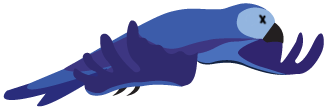
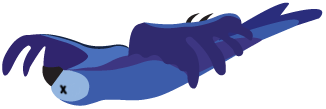
.

diff --git a/tp3/EntregaFinal/main.js b/tp3/EntregaFinal/main.js
@@ -1,12 +1,32 @@
-let valor = 2500;
 let colision = false;
-let cono = document.getElementById("aguila");
+let arbol = document.getElementById("arbol");
 let moneda = document.getElementById("moneda");
 let puntuacion = document.getElementById("puntuacion");
 let puntos = 0;
 let terminado = false;
-let perdiste = document.getElementById("perdiste"); //BORARR ESTO
-juego();
+let perdiste = document.getElementById("perdiste");
+let puntuacionFinal = document.getElementById("puntuacionFinal");
+let instrucciones = document.getElementById("instrucciones");
+let botonInstrucciones = document.getElementById("botonInstrucciones");
+botonInstrucciones.addEventListener("click", desplegarInstrucciones)
+
+
+perdiste.style.display = "none";
+  detenerMovimiento();
+
+document.querySelector(".jugar").addEventListener("click", function () {
+  document.querySelector(".jugar").style.display = "none"
+  terminado = false;
+  let cielo = document.getElementById("cielo").style.WebkitAnimationPlayState = "running";;
+  let montania = document.getElementById("montania").style.WebkitAnimationPlayState = "running";;
+  moneda.style.display = "initial";
+  arbol.style.display = "initial";
+    juego();
+});
+document.querySelector(".reiniciar").addEventListener("click", function () {
+    location = location;
+});
+
 function juego(){
   puntos = 0;
   actualizarPuntuacion();
@@ -20,11 +40,12 @@ function keyCode(event) {
   var x = event.keyCode;
   if (x == 87) {
   pajaro.className = " pajaro-salto";
-  setTimeout( () => {
-    pajaro.className = "pajaros";
-}, 1600);
+  pajaro.addEventListener("animationend", pajaroVolando);
 
 }
+}
+function pajaroVolando(){
+  pajaro.className = "pajaro";
 }
 function actualizarPuntuacion(){
   setInterval(function(){  puntuacion.innerHTML = "PUNTOS: " +puntos;}, 100);
@@ -35,7 +56,7 @@ function actualizarPuntuacion(){
  document.addEventListener('keydown', keyCode);
 
 function colisionArbol(){
-  setInterval(function(){  let posicion2 = cono.getBoundingClientRect();
+  setInterval(function(){  let posicion2 = arbol.getBoundingClientRect();
     let posicion = pajaro.getBoundingClientRect();
     let valor2 = posicion.right - posicion2.right;
     let valor3 = posicion.top - posicion2.top;
@@ -47,13 +68,14 @@ function colisionArbol(){
 
 }
 function movimientoArbol(){
+    let valor = 2500;
   let intervalo = setInterval(function(){
     if(valor < -200){
       valor = 2500;
     }
-    valor -= 7;
-    let moverCono = valor.toString().concat("px");
-    cono.style.left = moverCono;
+    valor -= 10;
+    let moverarbol = valor.toString().concat("px");
+    arbol.style.left = moverarbol;
     if( terminado){
       clearInterval(intervalo);
     }
@@ -72,6 +94,9 @@ function colisionMoneda(){
         if((valor2>-50 && valor2<50) && (valor3>-100 && valor3<100)){ //colision moneda-pajaro
           colision = true;
           if(colision){
+            let a = moneda.getBoundingClientRect().top;
+            a.innerHTML = "PUNTOS +10";
+
             moneda.className = " ";
             setTimeout( () => {
               moneda.className = "moneda";
@@ -85,11 +110,12 @@ function colisionMoneda(){
 
 }
 function movimientoMoneda(){
+  let valor = 2500;
   let intervalo = setInterval(function(){
     if(valor < -200){
       valor = 2500;
     }
-    valor -= 7;
+    valor -= 8;
     let moverMoneda = valor.toString().concat("px");
     moneda.style.left = moverMoneda;
     if( terminado){
@@ -98,12 +124,33 @@ function movimientoMoneda(){
   }, 1000/60);
 
 }
+function detenerMovimiento(){
+let cielo = document.getElementById("cielo").style.WebkitAnimationPlayState = "paused";;
+let montania = document.getElementById("montania").style.WebkitAnimationPlayState = "paused";;
+moneda.style.display = "none";
+arbol.style.display = "none";
+document.removeEventListener("keydown", keyCode);
+
+
+}
 function terminarJuego(){
 terminado = true;
-perdiste.className = " ";
+detenerMovimiento();
+perdiste.style.display = "initial";
+puntuacionFinal.innerHTML = "Tu puntuación fue de " + puntos;
+pajaro.className = "pajaro-muerto";
 document.removeEventListener("keydown", keyCode);
 
 }
+function desplegarInstrucciones(){
+  if(instrucciones.style.visibility == "hidden"){
+    instrucciones.style.visibility = "visible";
+  }else{
+    instrucciones.style.visibility = "hidden";
+
+  }
+}
 
 
-// falta hacer menu, pasar todo a request frame y hacer mas lindo el codigo, hacer que se generen las cosas en posiciones "random",  falta hacer animacion cuando muere el pajaro y borrar el arbol
+
+// pasasr todoa  request frame

diff --git a/tp3/EntregaFinal/main.css b/tp3/EntregaFinal/main.css
@@ -1,10 +1,9 @@
-.game{
+.juego{
     position: relative;
     display: block;
     float: left;
     width: 100%;
     height: 600px;
-
 }
  .cielo{
   position: absolute;
@@ -14,46 +13,48 @@
   background:  url("1c.png") 20% 0 repeat;
   width: 100%;
   height: 600px;
-  animation: moveback 30s linear infinite;
+  animation: movimiento 30s linear infinite;
 }
 .montania{
   position: absolute;
   background-attachment: fixed;
   background-position: bottom left;
-  z-index: 3;
+  z-index: -1;
   background:  url("1m.png") repeat;
   width: 100%;
   height: 600px;
-  animation: moveback 15s linear infinite;
+  animation: movimiento 15s linear infinite;
 }
 
-@keyframes moveback {
-  from {
-    background-position-x: 0;
-  }
-  to {
-    background-position-x: -1200px;
-  }
-}
-.perdiste{
-  display: none;
+.container{
+  float: left;
 }
 #perdiste{
-  color: red;
-  font-size: 50px;
+position: absolute;
+top: 20%;
+left: 40%;
+color: red;
+font-size: 100px;
+display: block;
+}
+.instrucciones{
+  margin-top: 15px;
+  visibility: hidden;
+  float: left;
+  display: inline;
 }
 
-
-.pajaros{
+.pajaro{
 width: 340px;
 height: 240px;
 position: absolute;
 left: 0;
 top: 60%;
+z-index: 2;
 background: url('pajaros.png') left center;
-animation: pajaros 1.6s steps(9) infinite;
+animation: pajaro 1.6s steps(9) infinite;
 }
-.aguila{
+.arbol{
   width: 300px;
   height: 300px;
   position: absolute;
@@ -61,15 +62,14 @@ animation: pajaros 1.6s steps(9) infinite;
   top: 55%;
   background: url('arboldef.png') left center;
 }
-@keyframes pajaros {
- 100% { background-position: -3260px; }
-}
+
 .pajaro-salto{
 width: 340px;
 height: 240px;
 position: absolute;
 left: 0;
 top: 60%;
+z-index: 2;
 background: url('pajaros.png') left center;
 animation: pajaro-salto  1.6s steps(9);
 }
@@ -82,11 +82,25 @@ height: 100px;
 background: url('moneda-sprite.png') left center;
 animation: moneda 0.6s steps(10) infinite;
 }
+.pajaro-muerto{
+  width: 326px;
+  height: 109px;
+  position: absolute;
+  transform: rotate(180deg);
+  left: 0;
+  z-index: 2;
+  top: 80%;
+  background: url('pajaro-muerto.png') left center;
+}
+
 .puntuacion{
   position: absolute;
   right: 0%;
   top: 0%;
   color: red;
+}
+#puntuacionFinal{
+  font-size: 60px;
 }
 @keyframes moneda{
 from{
@@ -117,5 +131,16 @@ to{
   left: 0;
   top: 60%;
 }
+ 100% { background-position: -3260px; }
+}
+@keyframes movimiento {
+  from {
+    background-position-x: 0;
+  }
+  to {
+    background-position-x: -1200px;
+  }
+}
+@keyframes pajaro {
  100% { background-position: -3260px; }
 }

diff --git a/tp3/EntregaFinal/index.html b/tp3/EntregaFinal/index.html
@@ -4,12 +4,17 @@
     <meta charset="utf-8">
     <title></title>
     <link rel="stylesheet" href="main.css">
+    <link rel="stylesheet" href="https://stackpath.bootstrapcdn.com/bootstrap/4.3.1/css/bootstrap.min.css">
   </head>
   <body>
-    <div class="game">
-      <div class="cielo">
-        <div class="montania">
-          <div class="pajaros" id="pajaro" ></div>
+    <div class="juego">
+      <div class="cielo" id="cielo">
+        <div class="montania" id="montania">
+          <div id="perdiste">
+                <p>Perdiste!</p>
+                <span id="puntuacionFinal"></span>
+                </div>
+          <div class="pajaro" id="pajaro" ></div>
           <div class="aguila" id="aguila"></div>
           <div class="moneda" id="moneda"></div>
           <span class="puntuacion" id="puntuacion"></span>
@@ -17,9 +22,14 @@
         </div>
       </div>
     </div>
-    <h1>con la w saltas,no la apretes muchas veces xq me rompes el juego XD</h1>
-    <div class="perdiste" id="perdiste">
-      <h1>perdiste</h1>
+    <div class="container">
+                <button type="button" class="btn btn-dark jugar">Play</button>
+                <button type="button" class="btn btn-dark reiniciar">Restart</button>
+                <button type="button" class="btn btn-dark" id="botonInstrucciones">Instrucciones</button>
+        </div>
+        <div class="instrucciones" id="instrucciones" >
+          <p>Apretando la W, el pajaro saltará, y tu objetivo es esquivar los árboles a la vez que juntas monedas para lograr una puntuación cada vez mayor.</p>
+        </div>
     </div>
   </body>
   <script src="main.js" charset="utf-8"></script>
